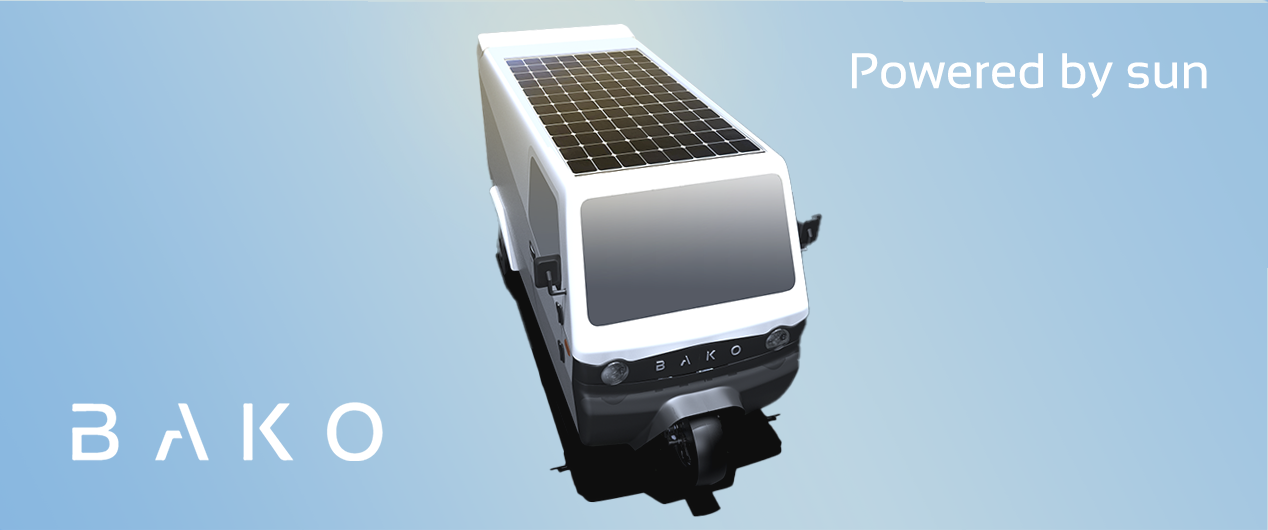
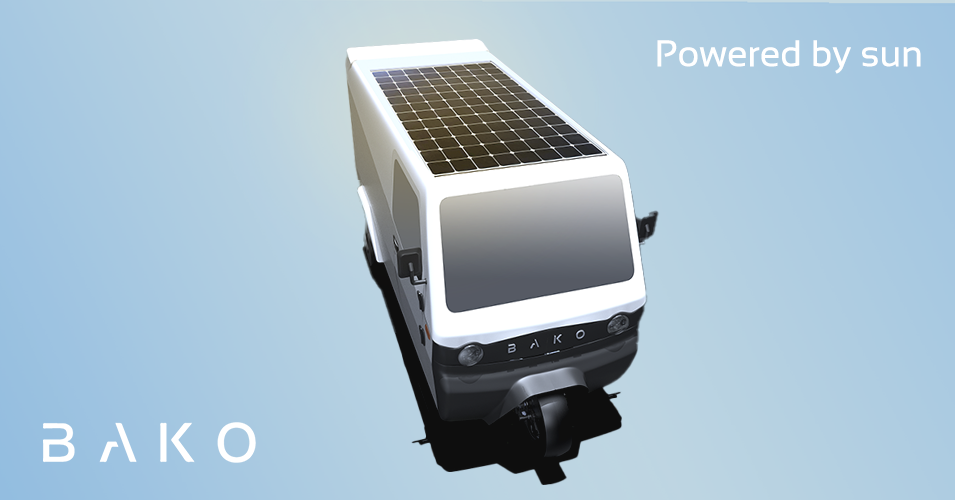
powered by sun image integrated

diff --git a/src/app/home/home.component.html b/src/app/home/home.component.html
@@ -72,13 +72,13 @@
         </div>
       </div>
       <div class="col-lg-6 col-xl-6 col-sm-12 col-xs-12 p-0 d-flex justify-content-start backgroundGris">
-        <!-- <img class="imageSize" src="../../assets/imgs/rendering/photovoltaic.png" alt=""> -->
-        <div class="row">
+        <img class="imageSize" src="../../assets/imgs/rendering/photovoltaic.png" alt="">
+        <!-- <div class="row">
           <div class="col-12 sunGodText">BAKO MOTORS</div>
           <div class="col-12 d-flex justify-content-center">
             <img class="remonteTop" src="../../assets/imgs/rendering/bakoWithDoors.png" width="350px" alt="">
           </div>
-        </div>
+        </div> -->
       </div>
     </div>
   </div>
